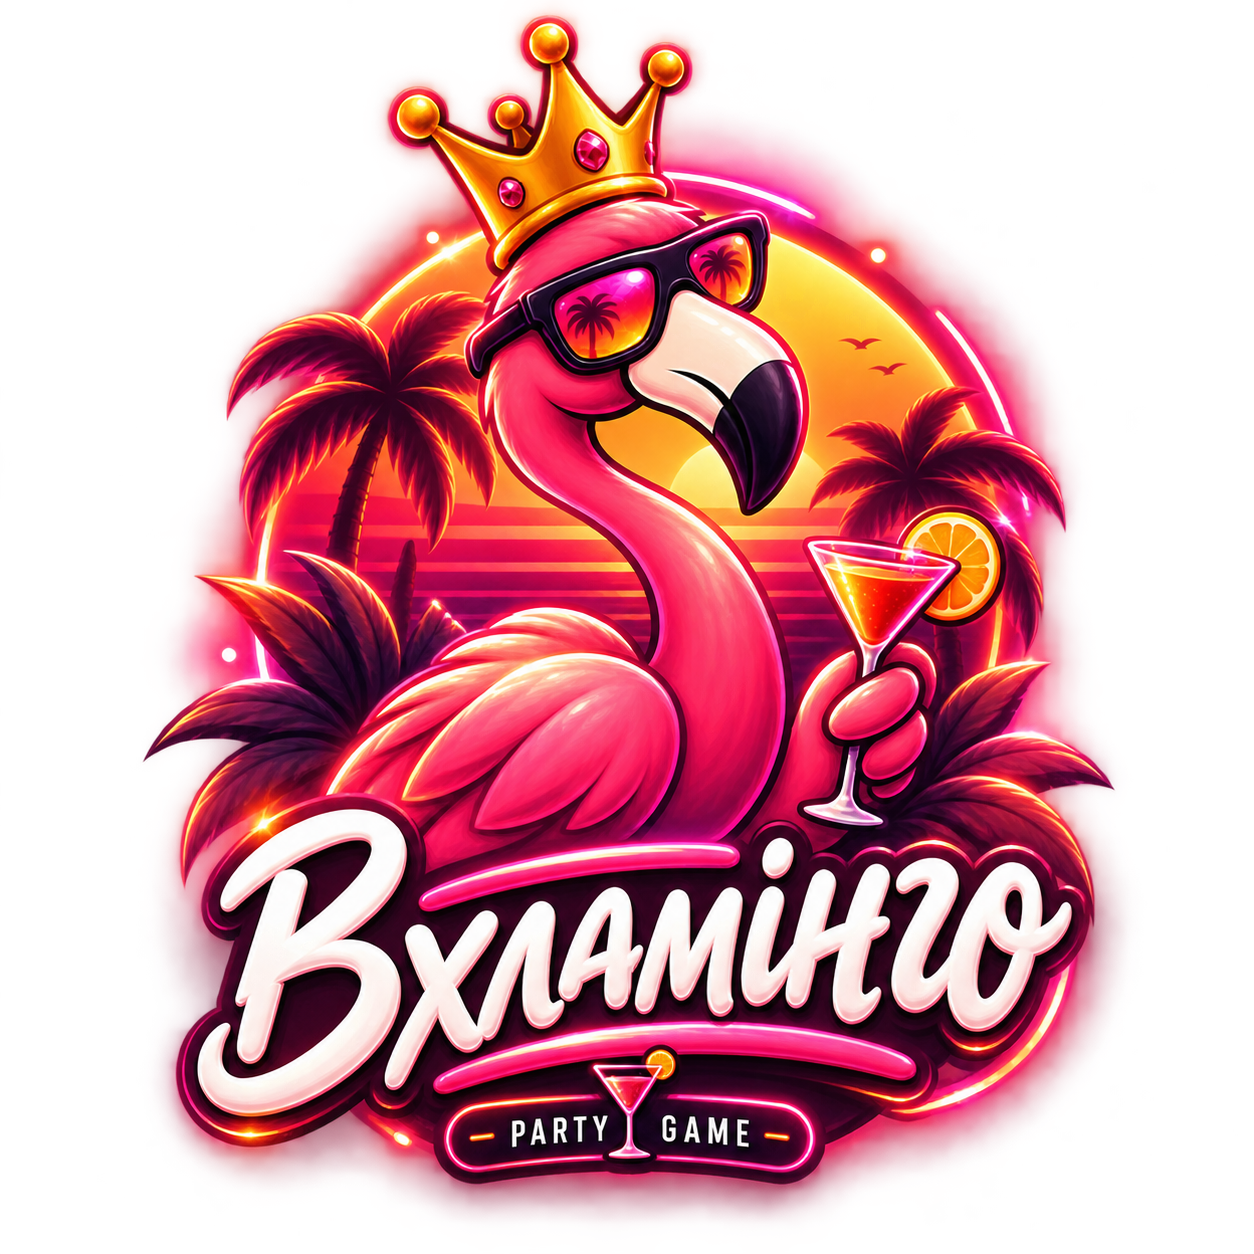
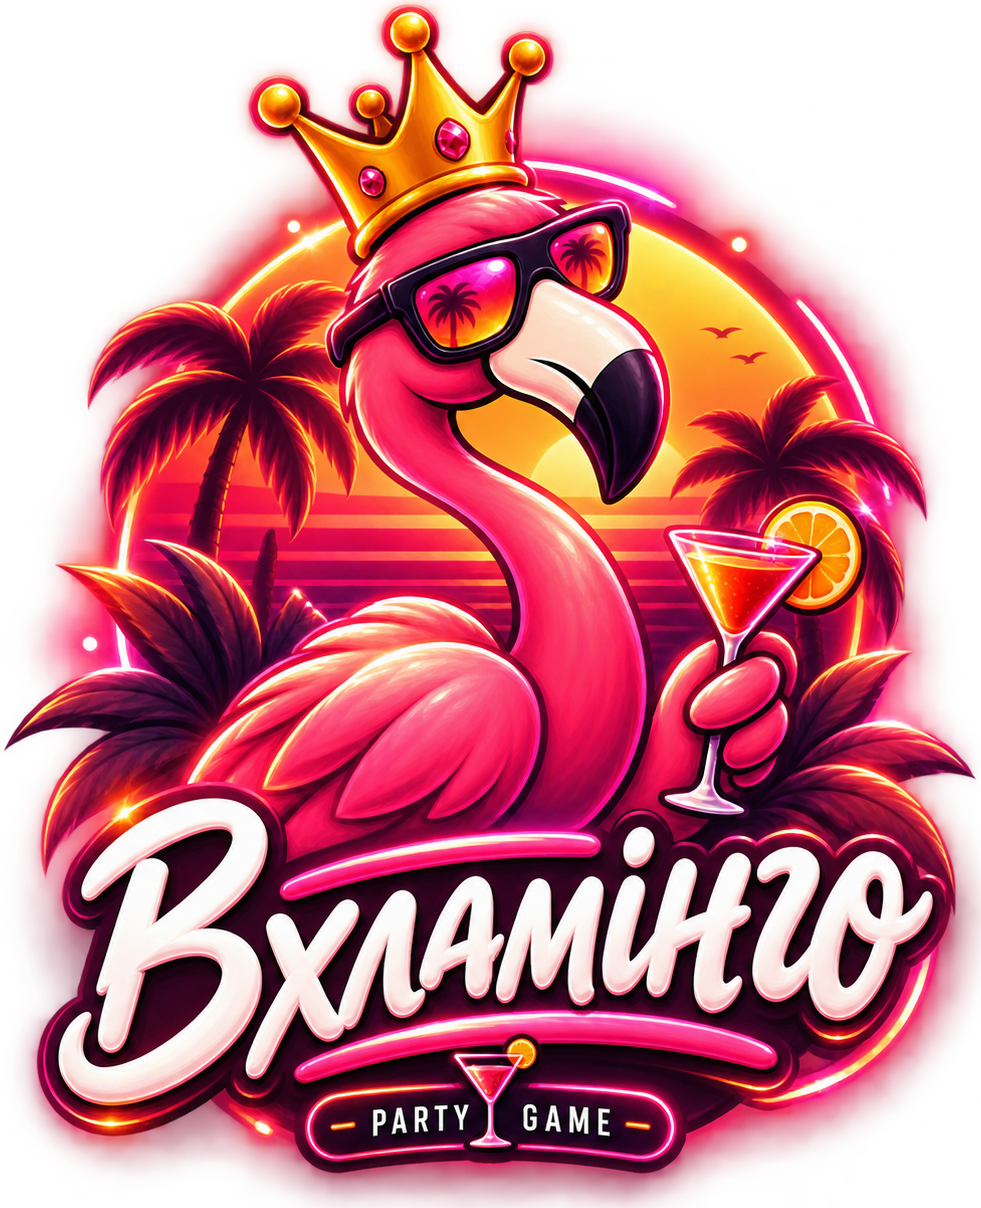
івпівпі

diff --git a/src/components/FlipCard.tsx b/src/components/FlipCard.tsx
@@ -121,8 +121,8 @@ export function FlipCard({ card, isFlipped, onFlip, hapticsEnabled, maxHeight }:
                 <Image
                   source={require("@/assets/images/flamingo2.png")}
                   style={{
-                      width: cf(235),
-                      height: cf(310),
+                      width: cf(263),
+                      height: cf(347),
                   }}
                   resizeMode="contain"
                 />
